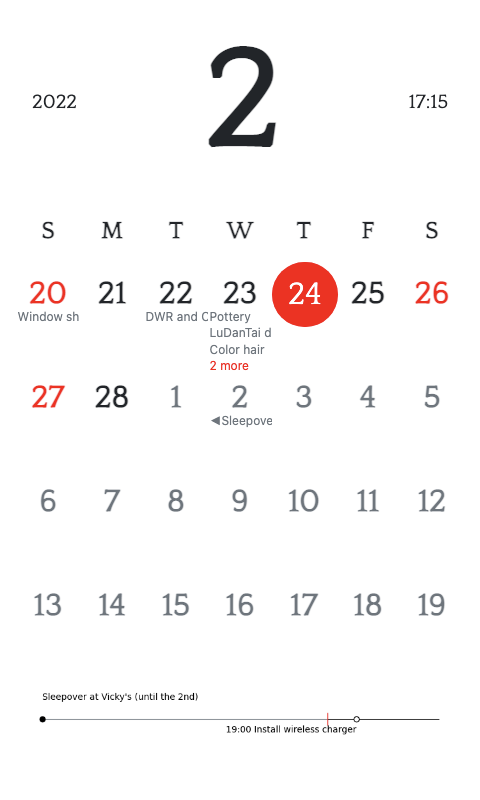
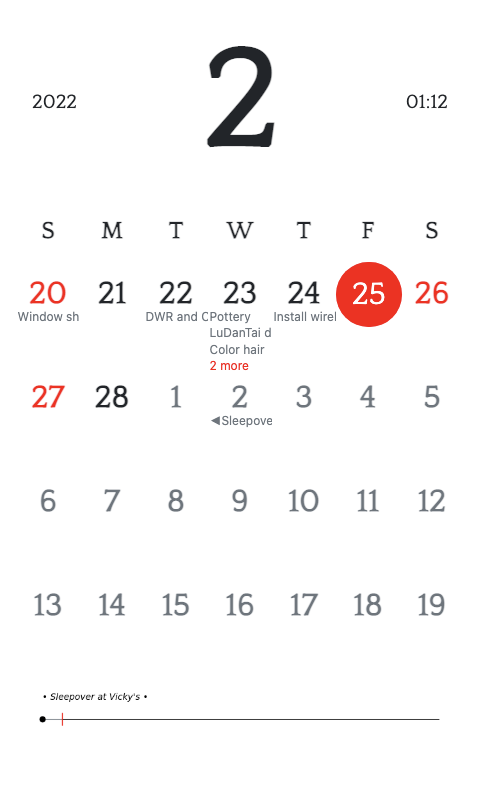
all day style adjusted for timeline

diff --git a/render/calendar.html b/render/calendar.html
@@ -12,7 +12,7 @@
              style="display:flex;justify-content:space-between;">
             <div class="time-info">2022</div>
             <h3 class="month font-weight-bold mb-0 text-uppercase">2</h3>
-            <div class="time-info">17:15</div>
+            <div class="time-info">01:12</div>
         </div>
         <!-- Days of week -->
         <ol class="day-names list-unstyled text-center"><li class="font-weight-bold text-uppercase">S</li>
@@ -37,10 +37,13 @@
 <div class="event"> LuDanTai dinner</div>
 <div class="event"> Color hair</div>
 <div class="event" style="color:red;">2 more</li>
-<li><div class="datecircle">24</div>
-</li>
-<li><div class="date">25</div>
-</li>
+            <li>
+                <div class="date">24</div>
+                <div class="event"> Install wireless charger</div>
+            </li>
+            <li>
+                <div class="datecircle">25</div>
+            </li>
 <li><div class="date" style="color:red;">26</div>
 </li>
 <li><div class="date" style="color:red;">27</div>

diff --git a/render/timeline.py b/render/timeline.py
@@ -7,7 +7,7 @@ from adjustText import adjust_text
 GRAY = "#6c757d"
 TIMELINE_WIDTH = .75
 RED_TICK_SIZE = 15
-
+TIMELINE_WORDS = False
 
 def military_to_minutes(time_in_military: str) -> int:
     hours, minutes = time_in_military.split(":")
@@ -83,8 +83,8 @@ class Timeline:
         texts = []
         for event in self.event_list:
             if event["allday"]:
-                summary_with_time = event["summary"]
-                if event["isMultiday"] and event["endDatetime"].date() != self.current_day:
+                summary_with_time = f'• {event["summary"]} •'
+                if event["isMultiday"] and event["endDatetime"].date() != self.current_day and TIMELINE_WORDS:
                     summary_with_time += f" (until the {get_date_ordinal(int(event['endDatetime'].strftime('%d')))})"
             else:
                 summary_with_time = f'{event["startDatetime"].strftime("%H:%M")} {event["summary"]}'
@@ -96,7 +96,7 @@ class Timeline:
             texts.append(
                 ax.text(s=summary_with_time,
                         x=military_to_minutes(event["startDatetime"].strftime("%H:%M")), y=is_complete(event)["xy"],
-                        color=is_complete(event)["color"])
+                        color=is_complete(event)["color"], style="italic")
             )
 
         # remove x, y axis and spines

diff --git a/README.md b/README.md
@@ -15,9 +15,11 @@
 
 - [x] thinner line for timeline line
 - [x] filled black circle while event is going on
+- [x] all day event as 00:00 event
+- [ ] all day multi day italics surrounded by bullet
+- [ ] all day single day is italics no bullet
 - [ ] text start aligns with dot
 - [ ] fix overlapping as it's not perfected yet
-- [ ] all day event as 00:00 event
 
 This repo contains the code needed to drive an E-Ink Magic Calendar that uses a battery powered (PiSugar2) Raspberry Pi
 Zero WH to retrieve events from a Google Calendar, format it into the desired layout, before pushing it to a Waveshare
